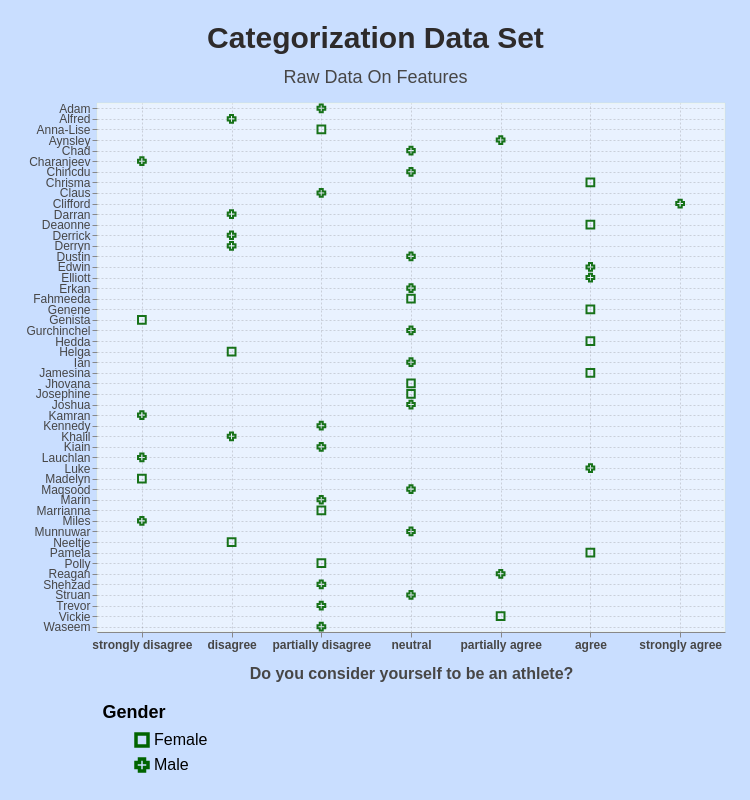
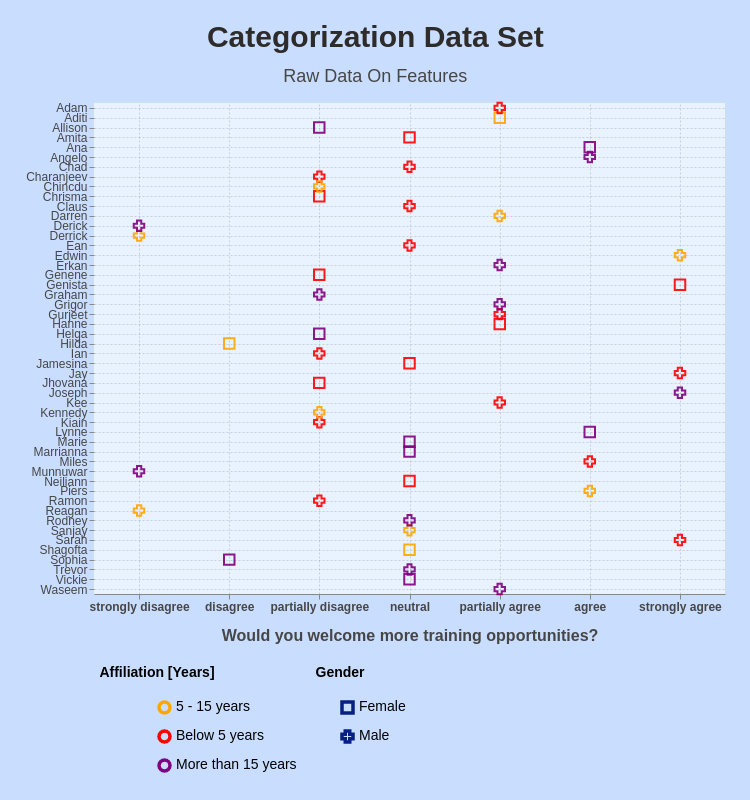
data set

diff --git a/md/29_Categorization/cat_11_data_set.md b/md/29_Categorization/cat_11_data_set.md
@@ -15,14 +15,20 @@ Some thoughts on it:
 - The data shall start simple, but be expanded into non-trivial complexity.
 
 The concrete scenario:
-- An offer is made to a number of employees.
-- An employee can accept this offer or not.
+- A training offer is made to a number of employees.
+- An employee can accept this offer or decline it. 
 - The offer here shall be 'a week of training'. So, the employee can either work as normal or to travel to another place to learn some new skills.
 
 The task for a data scientist is to support the organization team for such a training set-up on questions like:
 - How many training seats need to be offered?
 - On which attributes does the acceptance of such a training depend?
 - Would different types of training lead to more acceptance?
+
+Available at the beginning are some data:
+- The first names of the employees (for training purposes here from an official statistic. The first names are already unique.)
+- The gender (male or female)
+- The company affiliation measured in 3 steps.
+- The answers of each employee to a question. 
 
 
 <br>
@@ -31,7 +37,7 @@ The task for a data scientist is to support the organization team for such a tra
 {% include images/image.html imagePath = "../assets/images/img_blog/Python/BDF/30_BDF_CAT/Cat_Model_Data.png" imageCaption =  ""%}
 </a>
 <br><b>
-Categorization Data Set
+Data Set manufactured to suit an introduction to a few categorization algorithms.
 </b><br>
 </center>
 <br>
